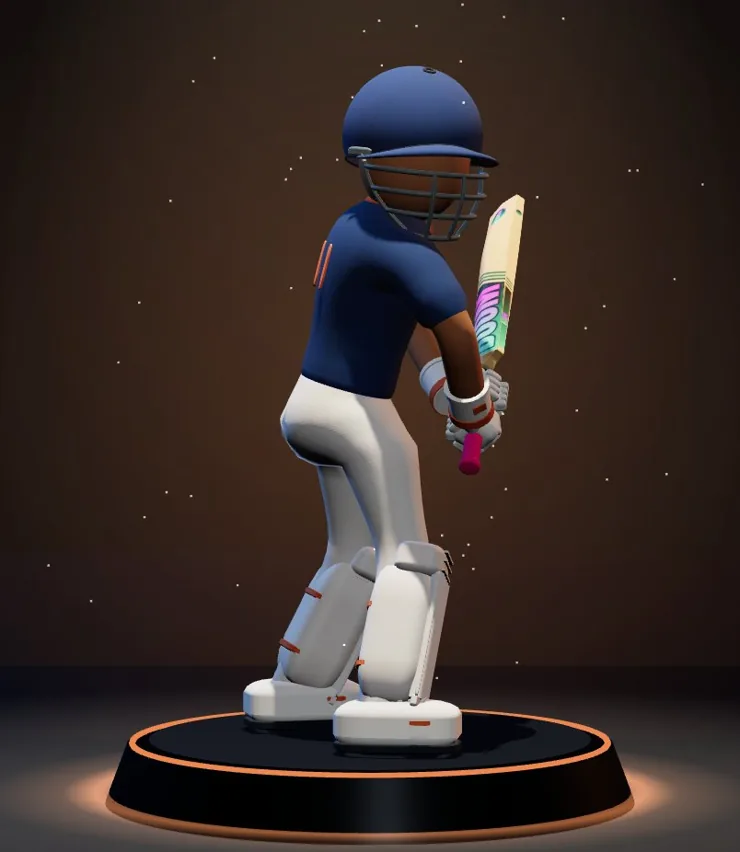
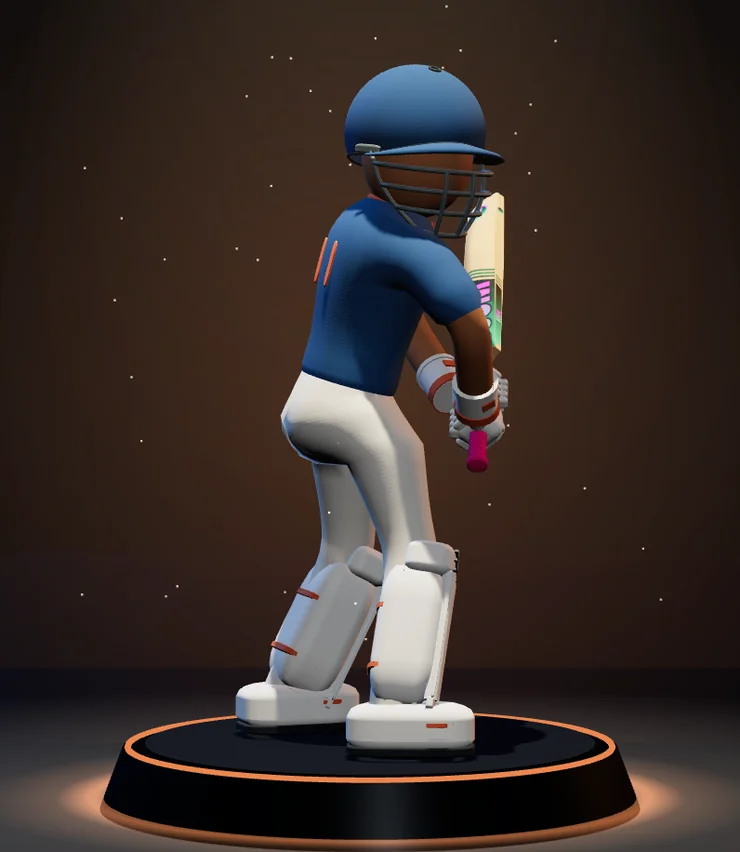
Dressing Room: OG Navy in production's colours
OG Navy had been given a darker navy of its own (#1E3A66 shirt, #2A4170
helmet) than the batter wears in production. It is production's kit to the
last colour now — #2F5A88 shirt, #2A527C helmet, #F4F0E4 trousers, #FDFCF4
pads, #ED7044 trim and number, the same as BATTER_KITS.home — so a player
who never opens the room bats exactly as before. The What's new story that
shows it is drawn again off the stage in the same colours.

Claude-Session: https://claude.ai/code/session_01EoBJLbZswgFH2LcCpDVMkL

Changed region(s): [[0.0932, 0.061, 0.9324, 1.0], [0.4973, 0.3357, 0.5284, 0.3662]]

diff --git a/src/game/dressing.ts b/src/game/dressing.ts
@@ -40,7 +40,8 @@ export interface BatSkin {
 }
 
 export const OUTFITS: readonly Outfit[] = [
-  { id: 'home', name: 'OG Navy', shirt: '#1E3A66', helmet: '#2A4170', trousers: '#F2EEE6', pads: '#F4EFE6', trim: '#E8692E', number: '#ED7044', glow: '#ED7044', line: 'Your kit from day one.', short: 'Free' },
+  // Production's kit to the last colour (`BATTER_KITS.home`): the room is where it is shown off, not changed.
+  { id: 'home', name: 'OG Navy', shirt: '#2F5A88', helmet: '#2A527C', trousers: '#F4F0E4', pads: '#FDFCF4', trim: '#ED7044', number: '#ED7044', glow: '#ED7044', line: 'Your kit from day one.', short: 'Free' },
   { id: 'crimson', name: 'Crimson', shirt: '#C51C25', helmet: '#B8171D', trousers: '#EFE3CF', pads: '#E9DCC6', trim: '#8F1D22', number: '#FFFFFF', glow: '#FF3B3B', line: '25 finished innings.', short: '25 innings' },
   { id: 'forest', name: 'British Racing Green', shirt: '#0A4A3E', helmet: '#135045', trousers: '#F1E5D5', pads: '#ECE0CC', trim: '#0A4A3E', number: '#FFFFFF', glow: '#25C28A', line: 'Emerging Player in all three modes.', short: 'Emerging in every mode' },
   { id: 'gold', name: 'Bumblebee', shirt: '#F2A31B', helmet: '#F2A31B', trousers: '#13284A', pads: '#1E3560', trim: '#F2A31B', number: '#13284A', glow: '#FFB52E', line: '10 Rival wins against 5 different players.', short: '10 Rival wins' },
